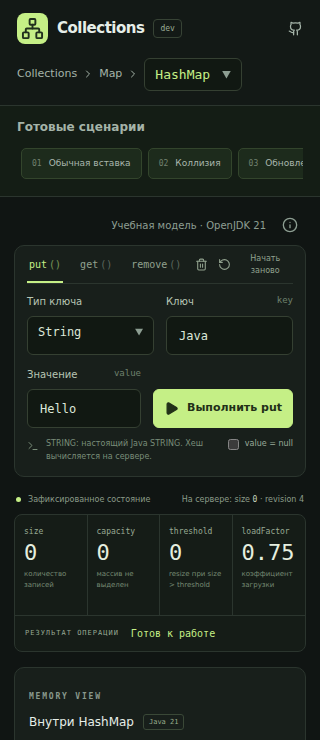
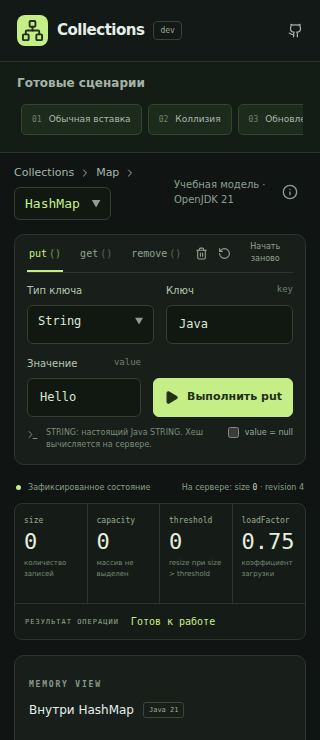
fix: restore compact workbench navigation below the header

diff --git a/frontend/e2e/workbench-polish.spec.ts b/frontend/e2e/workbench-polish.spec.ts
@@ -41,21 +41,30 @@ test("compact breadcrumbs, scenario-only sidebar and contextual OpenJDK link", a
   await expect(nav).toContainText("Collections");
   await expect(nav.locator(":scope > span").nth(1)).toHaveText("Map");
   await expect(collection).toHaveCount(1);
-  await expect(page.locator(".app-header > .breadcrumbs")).toHaveCount(1);
-  await expect(page.locator("main .breadcrumbs")).toHaveCount(0);
+  await expect(page.locator(".app-header .breadcrumbs")).toHaveCount(0);
+  await expect(
+    page.locator("main > .collection-heading > .breadcrumbs"),
+  ).toHaveCount(1);
+  await expect(
+    page.locator("main > .collection-heading > .collection-context"),
+  ).toHaveCount(1);
   await expect(nav.getByRole("combobox")).toHaveCount(1);
   await expect(page.locator(".app-header")).toHaveCSS("position", "sticky");
   const header = (await page.locator(".app-header").boundingBox())!;
-  expect(header.height).toBe(isMobile ? 106 : 76);
+  expect(header.height).toBe(isMobile ? 62 : 76);
   expect(
     (await page.locator(".visualization").boundingBox())!.height,
   ).toBeCloseTo(isMobile ? 540 : 576, 0);
   if (!isMobile) {
-    const brand = (await page.locator(".brand").boundingBox())!;
     const navigation = (await nav.boundingBox())!;
-    const actions = (await page.locator(".header-right").boundingBox())!;
-    expect(navigation.x).toBeGreaterThan(brand.x + brand.width);
-    expect(navigation.x + navigation.width).toBeLessThan(actions.x);
+    const context = (await page.locator(".collection-context").boundingBox())!;
+    expect(navigation.y).toBeGreaterThanOrEqual(header.y + header.height);
+    expect(navigation.x + navigation.width).toBeLessThan(context.x);
+    expect(
+      Math.abs(
+        navigation.y + navigation.height / 2 - context.y - context.height / 2,
+      ),
+    ).toBeLessThan(1);
   }
   await expect(page.locator(".sidebar select")).toHaveCount(0);
   for (const caption of [
@@ -92,7 +101,7 @@ test("compact breadcrumbs, scenario-only sidebar and contextual OpenJDK link", a
   await noHorizontalOverflow(nav);
 });
 
-test("global header navigation stays visible and usable through narrow layouts and scrolling", async ({
+test("compact workbench navigation and model help share a responsive row below the header", async ({
   page,
 }) => {
   await ready(page);
@@ -118,19 +127,28 @@ test("global header navigation stays visible and usable through narrow layouts a
     await expect(nav).toBeInViewport({ ratio: 1 });
     await expect(collection).toBeInViewport({ ratio: 1 });
     await expect(github).toBeInViewport({ ratio: 1 });
+    const navigation = (await nav.boundingBox())!;
+    const model = (await page.locator(".collection-context").boundingBox())!;
+    expect(
+      Math.abs(
+        navigation.y + navigation.height / 2 - model.y - model.height / 2,
+      ),
+    ).toBeLessThan(1);
+    expect(navigation.x + navigation.width).toBeLessThanOrEqual(model.x);
     await noHorizontalOverflow(page.locator("html"));
     await noHorizontalOverflow(page.locator(".app-header"));
   }
   await page.evaluate(() => scrollTo(0, document.documentElement.scrollHeight));
-  await expect(collection).toBeInViewport({ ratio: 1 });
   await expect(github).toBeInViewport({ ratio: 1 });
+  await collection.focus();
+  await expect(collection).toBeInViewport({ ratio: 1 });
   await collection.selectOption("ARRAY_LIST");
   await expect(page.locator(".primary-button")).toBeEnabled();
   await expect(nav.locator(":scope > span").nth(1)).toHaveText("List");
   await expect(page.getByTestId("committed-size")).toHaveText("0");
   await collection.focus();
   await page.keyboard.press("Tab");
-  await expect(github).toBeFocused();
+  await expect(page.locator(".collection-help summary")).toBeFocused();
   await page.keyboard.press("Shift+Tab");
   await expect(collection).toBeFocused();
   await expect(collection).toHaveCSS("outline-style", "solid");

diff --git a/frontend/src/app/App.tsx b/frontend/src/app/App.tsx
@@ -92,26 +92,6 @@ export default function App({
           </span>
           <span className="version">{__APP_VERSION__}</span>
         </a>
-        <nav className="breadcrumbs" aria-label="Java Collections Framework">
-          <span title="Java Collections Framework">Collections</span>
-          <ChevronRight size={12} aria-hidden="true" />
-          <span>{view.family}</span>
-          <ChevronRight size={12} aria-hidden="true" />
-          <select
-            aria-label="Коллекция"
-            aria-describedby="collection-switch-hint"
-            value={collection}
-            onChange={(event) =>
-              switchCollection(event.target.value as CollectionType)
-            }
-          >
-            {collectionOptions.map((item) => (
-              <option key={item.id} value={item.id}>
-                {item.name}
-              </option>
-            ))}
-          </select>
-        </nav>
         <div className="header-right">
           <span className={`connection ${session ? "online" : ""}`}>
             <i />
@@ -150,11 +130,36 @@ export default function App({
           onDemo={demo}
         />
         <main>
-          <h1 className="sr-only">Лаборатория {view.name}</h1>
-          <div className="collection-context">
-            <span>Учебная модель · OpenJDK 21</span>
-            <CollectionHelp description={view.description} />
-          </div>
+          <header className="collection-heading">
+            <h1 className="sr-only">Лаборатория {view.name}</h1>
+            <nav
+              className="breadcrumbs"
+              aria-label="Java Collections Framework"
+            >
+              <span title="Java Collections Framework">Collections</span>
+              <ChevronRight size={12} aria-hidden="true" />
+              <span>{view.family}</span>
+              <ChevronRight size={12} aria-hidden="true" />
+              <select
+                aria-label="Коллекция"
+                aria-describedby="collection-switch-hint"
+                value={collection}
+                onChange={(event) =>
+                  switchCollection(event.target.value as CollectionType)
+                }
+              >
+                {collectionOptions.map((item) => (
+                  <option key={item.id} value={item.id}>
+                    {item.name}
+                  </option>
+                ))}
+              </select>
+            </nav>
+            <div className="collection-context">
+              <span>Учебная модель · OpenJDK 21</span>
+              <CollectionHelp description={view.description} />
+            </div>
+          </header>
           {error && (
             <div className="error-banner" role="alert">
               <Info size={18} />

diff --git a/frontend/src/style.css b/frontend/src/style.css
@@ -116,9 +116,7 @@ code {
   z-index: 6;
   height: var(--header-height);
   border-bottom: 1px solid var(--line);
-  display: grid;
-  grid-template-columns: auto minmax(0, 1fr) auto;
-  gap: 24px;
+  display: flex;
   align-items: center;
   justify-content: space-between;
   padding: 0 32px;
@@ -131,7 +129,6 @@ code {
   font-size: 17px;
   font-weight: 650;
   letter-spacing: -0.5px;
-  white-space: nowrap;
 }
 .brand-mark {
   background: var(--lime);
@@ -352,6 +349,14 @@ main {
 .workspace > main {
   align-self: start;
 }
+.collection-heading {
+  display: flex;
+  justify-content: space-between;
+  gap: 8px 16px;
+  align-items: center;
+  flex-wrap: wrap;
+  margin-bottom: 14px;
+}
 .breadcrumbs {
   display: flex;
   align-items: center;
@@ -359,8 +364,6 @@ main {
   font-size: 12px;
   color: #a4b3a8;
   min-width: 0;
-  justify-self: center;
-  white-space: nowrap;
 }
 .breadcrumbs > svg {
   flex-shrink: 0;
@@ -375,8 +378,6 @@ main {
   gap: 8px;
   color: var(--muted);
   font-size: 10px;
-  justify-content: flex-end;
-  margin-bottom: 4px;
 }
 .collection-help {
   position: relative;
@@ -1565,6 +1566,21 @@ main {
   }
 }
 @media (max-width: 1000px) {
+  .collection-heading {
+    flex-wrap: nowrap;
+    gap: 8px;
+  }
+  .breadcrumbs {
+    flex: 1;
+    flex-wrap: wrap;
+  }
+  .collection-context {
+    flex: 0 0 132px;
+  }
+  .collection-context > span {
+    min-width: 0;
+    line-height: 1.5;
+  }
   .inspector {
     height: var(--visualization-height);
   }
@@ -1626,31 +1642,16 @@ main {
   .header-right .connection {
     display: none;
   }
-  .brand-suffix {
-    display: none;
-  }
 }
 @media (max-width: 680px) {
   .workspace > main {
     align-self: stretch;
   }
   :root {
-    --header-height: 106px;
+    --header-height: 62px;
   }
   .app-header {
-    padding: 10px 17px;
-    grid-template-columns: minmax(0, 1fr) auto;
-    grid-template-rows: 36px 44px;
-    gap: 6px 12px;
-  }
-  .app-header .breadcrumbs {
-    grid-column: 1 / -1;
-    grid-row: 2;
-    justify-self: start;
-  }
-  .header-right {
-    grid-column: 2;
-    grid-row: 1;
+    padding: 0 17px;
   }
   .brand {
     font-size: 15px;
@@ -1734,6 +1735,9 @@ main {
   main {
     padding: 12px 14px 15px;
   }
+  .collection-heading {
+    gap: 4px;
+  }
   .breadcrumbs {
     gap: 5px;
     font-size: 11px;
@@ -1742,7 +1746,6 @@ main {
     right: 0;
   }
   .collection-context {
-    flex-basis: 100%;
     position: relative;
   }
   .collection-help {

diff --git a/frontend/e2e/workspace.spec.ts b/frontend/e2e/workspace.spec.ts
@@ -183,7 +183,7 @@ test("sidebar reclaims width and scrolls independently without resetting playbac
   await expect(page.getByLabel("История операций")).toHaveValue(history);
   await expect(page.locator(".zoom-controls > span")).toHaveText("100%");
   await page.keyboard.press("Tab");
-  await expect(page.locator(".collection-help summary")).toBeFocused();
+  await expect(page.getByLabel("Коллекция", { exact: true })).toBeFocused();
   await page.getByLabel("Скорость воспроизведения").selectOption("0.5");
   await page
     .getByRole("button", { name: "Воспроизвести", exact: true })

diff --git a/docs/verification/workbench-polish/README.md b/docs/verification/workbench-polish/README.md
@@ -4,16 +4,18 @@ Verified locally on 2026-11-11 against the real Java 21 backend and the producti
 Vite bundle, with Chromium desktop/mobile projects. No production service or
 production configuration was changed.
 
-The global sticky application header contains `Collections → Map → HashMap ▾`
-or `Collections → List → ArrayList ▾` between the brand and connection/GitHub
-controls. Collections means Java Collections Framework. There is no duplicate
-breadcrumb row in main or collection selector in the sidebar. The model label/help
-sits compactly above the operation controls; the source link remains in Algorithm.
+The compact workbench row below the global header contains
+`Collections → Map → HashMap ▾` or `Collections → List → ArrayList ▾` on the left,
+with the model label/help on the right in the same flex container. Collections
+means Java Collections Framework. Narrow screens wrap breadcrumb content and model text inside their own areas
+without horizontal overflow; the model label stays on the right of that same row. The source
+link remains in Algorithm.
 
-Desktop header height remains 76 px. On phones the same header uses two rows
-(106 px) so navigation, brand and GitHub remain accessible at 320 px. The initial
-1440×900 HashMap diagram and Events inspector start at 417 px. The diagram remains
-832×576 px; visualization/inspector sizing and animation behavior are unchanged.
+The global sticky header retains brand/version on the left and connection/GitHub
+on the right, with its original 76 px desktop / 62 px phone height. No collection
+navigation or decoration fills its center. The initial 1440×900 HashMap diagram
+and Events inspector start at 428 px. The diagram remains 832×576 px;
+visualization/inspector sizing and animation behavior are unchanged.
 The sidebar starts with one row containing a 12 px scenario heading and an
 icon-only collapse button. The collapsed rail keeps its accessible expand button.
 Independent list scrolling and the educational footer are preserved. Mobile
@@ -23,7 +25,7 @@ balance and canvas navigation remain separate work in #50 and #65.
 | View | Screenshot |
 | --- | --- |
 | 1440×900, initial HashMap | [Desktop workbench](desktop-hashmap.png) |
-| Global-header collection picker | [Desktop menu](desktop-menu.png) |
+| Compact workbench collection picker | [Desktop menu](desktop-menu.png) |
 | Icon-only expand button in the collapsed rail | [Collapsed sidebar](desktop-sidebar-collapsed.png) |
 | ArrayList, compact constructor row, nested ELEMENT result | [Desktop ArrayList](desktop-arraylist.png) |
 | 320×740, wrapped ArrayList constructor | [Narrow ArrayList](mobile-arraylist.png) |
@@ -67,9 +69,9 @@ The new Playwright coverage checks pointer/touch and keyboard selection,
 Escape cancellation, focus after closing, accessible names/descriptions,
 collection-specific source links, constructor replacement/history clearing,
 BOOLEAN/ELEMENT results and ELEMENT_READ, nulls and long escaped strings. It
-checks 1440×900, 412×839 and 320×740, with no horizontal overflow. Global header
-placement, visible actions and sticky navigation are also checked at
-1024/768/681/680 px, after page scrolling and with keyboard Tab/Shift+Tab. Existing suites
+checks 1440×900, 412×839 and 320×740, with no horizontal overflow. The shared
+workbench row, visible global header actions and keyboard access after page
+scrolling are also checked at 1024/768/681/680 px with Tab/Shift+Tab. Existing suites
 cover playback, revision/recovery, scenario behavior, sidebar scrolling/collapse,
 zoom preservation, reduced motion and the inspector splitter.
 

diff --git a/docs/ARCHITECTURE.md b/docs/ARCHITECTURE.md
@@ -78,11 +78,13 @@ sidebar занимает доступный viewport под ним. Верх, з
 Доступная кнопка сворачивает sidebar до узкой полосы, освобождая ширину без
 размонтирования диаграммы или сброса session/trace/cursor/zoom. На экранах до 680 px
 sidebar сохраняет горизонтальный список сценариев. Единственный selector коллекции
-находится в последнем сегменте breadcrumbs глобального закреплённого header,
-между брендом и статусом/GitHub (#52). Отдельной строки breadcrumbs в main нет.
-На desktop высота header остаётся 76 px; до 680 px breadcrumbs переходят во
-вторую строку того же header высотой 106 px. Подпись модели и подсказка находятся
-компактно рядом с панелью операций. Размеры визуализации и инспектора не меняются.
+находится слева в компактной строке breadcrumbs над панелью операций (#52).
+Справа в той же строке — подпись модели и подсказка. На узких экранах
+содержимое breadcrumbs и текст подписи переносятся внутри своих областей,
+без отдельного ряда для подписи и без горизонтального переполнения.
+Глобальный header сохраняет бренд слева и статус/GitHub справа; его высота
+остаётся 76 px на desktop и 62 px на телефонах.
+Размеры визуализации и инспектора не меняются.
 Нативные select используют общий тёмный picker через `appearance: base-select`
 с системным fallback; клавиатурой, touch и фокусом управляет браузер.
 Конструктор ArrayList всегда видим отдельной компактной строкой над обычными
